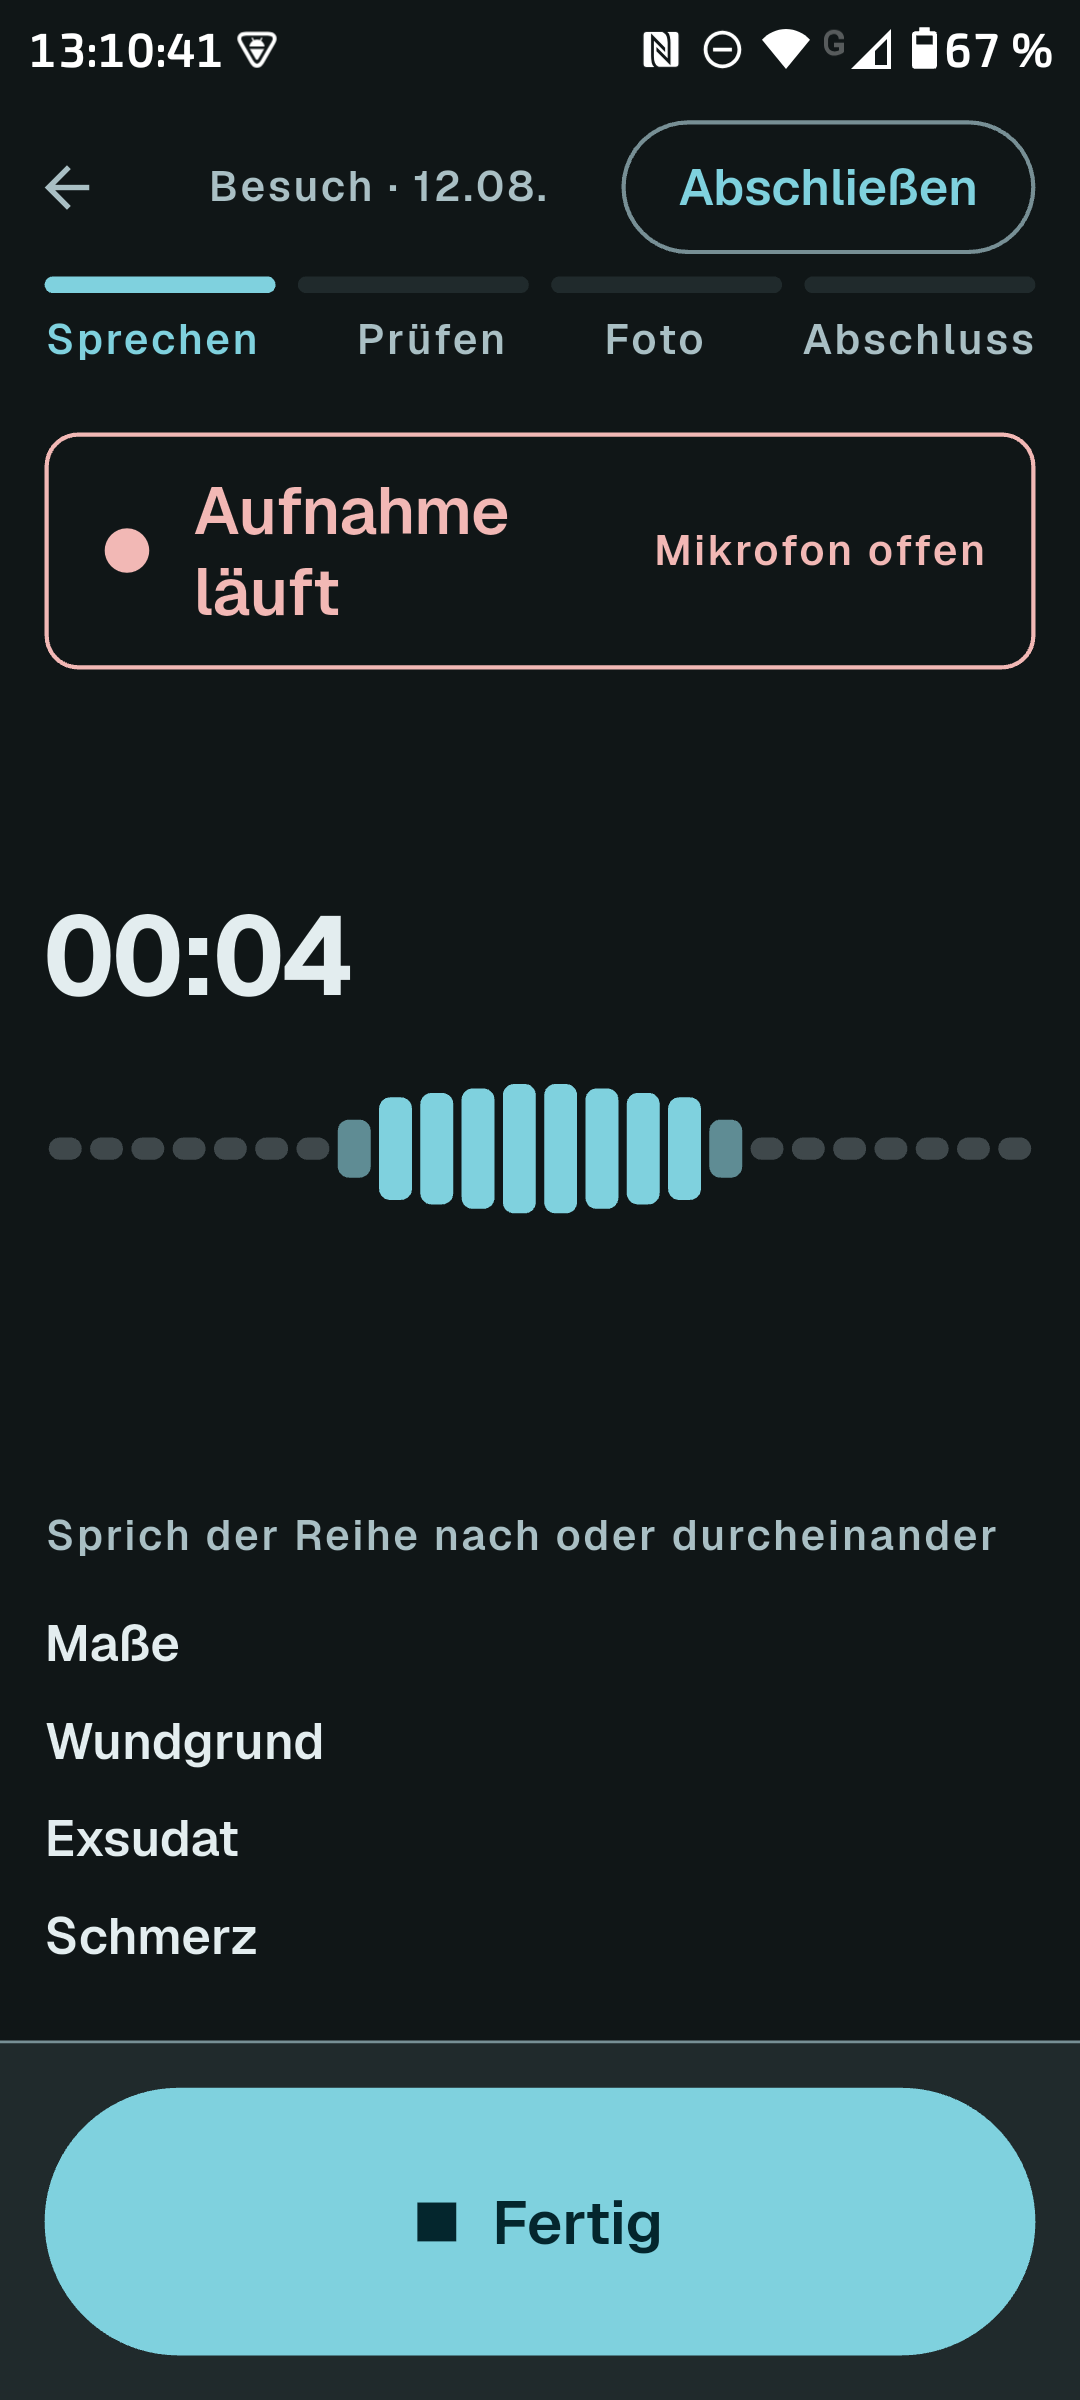
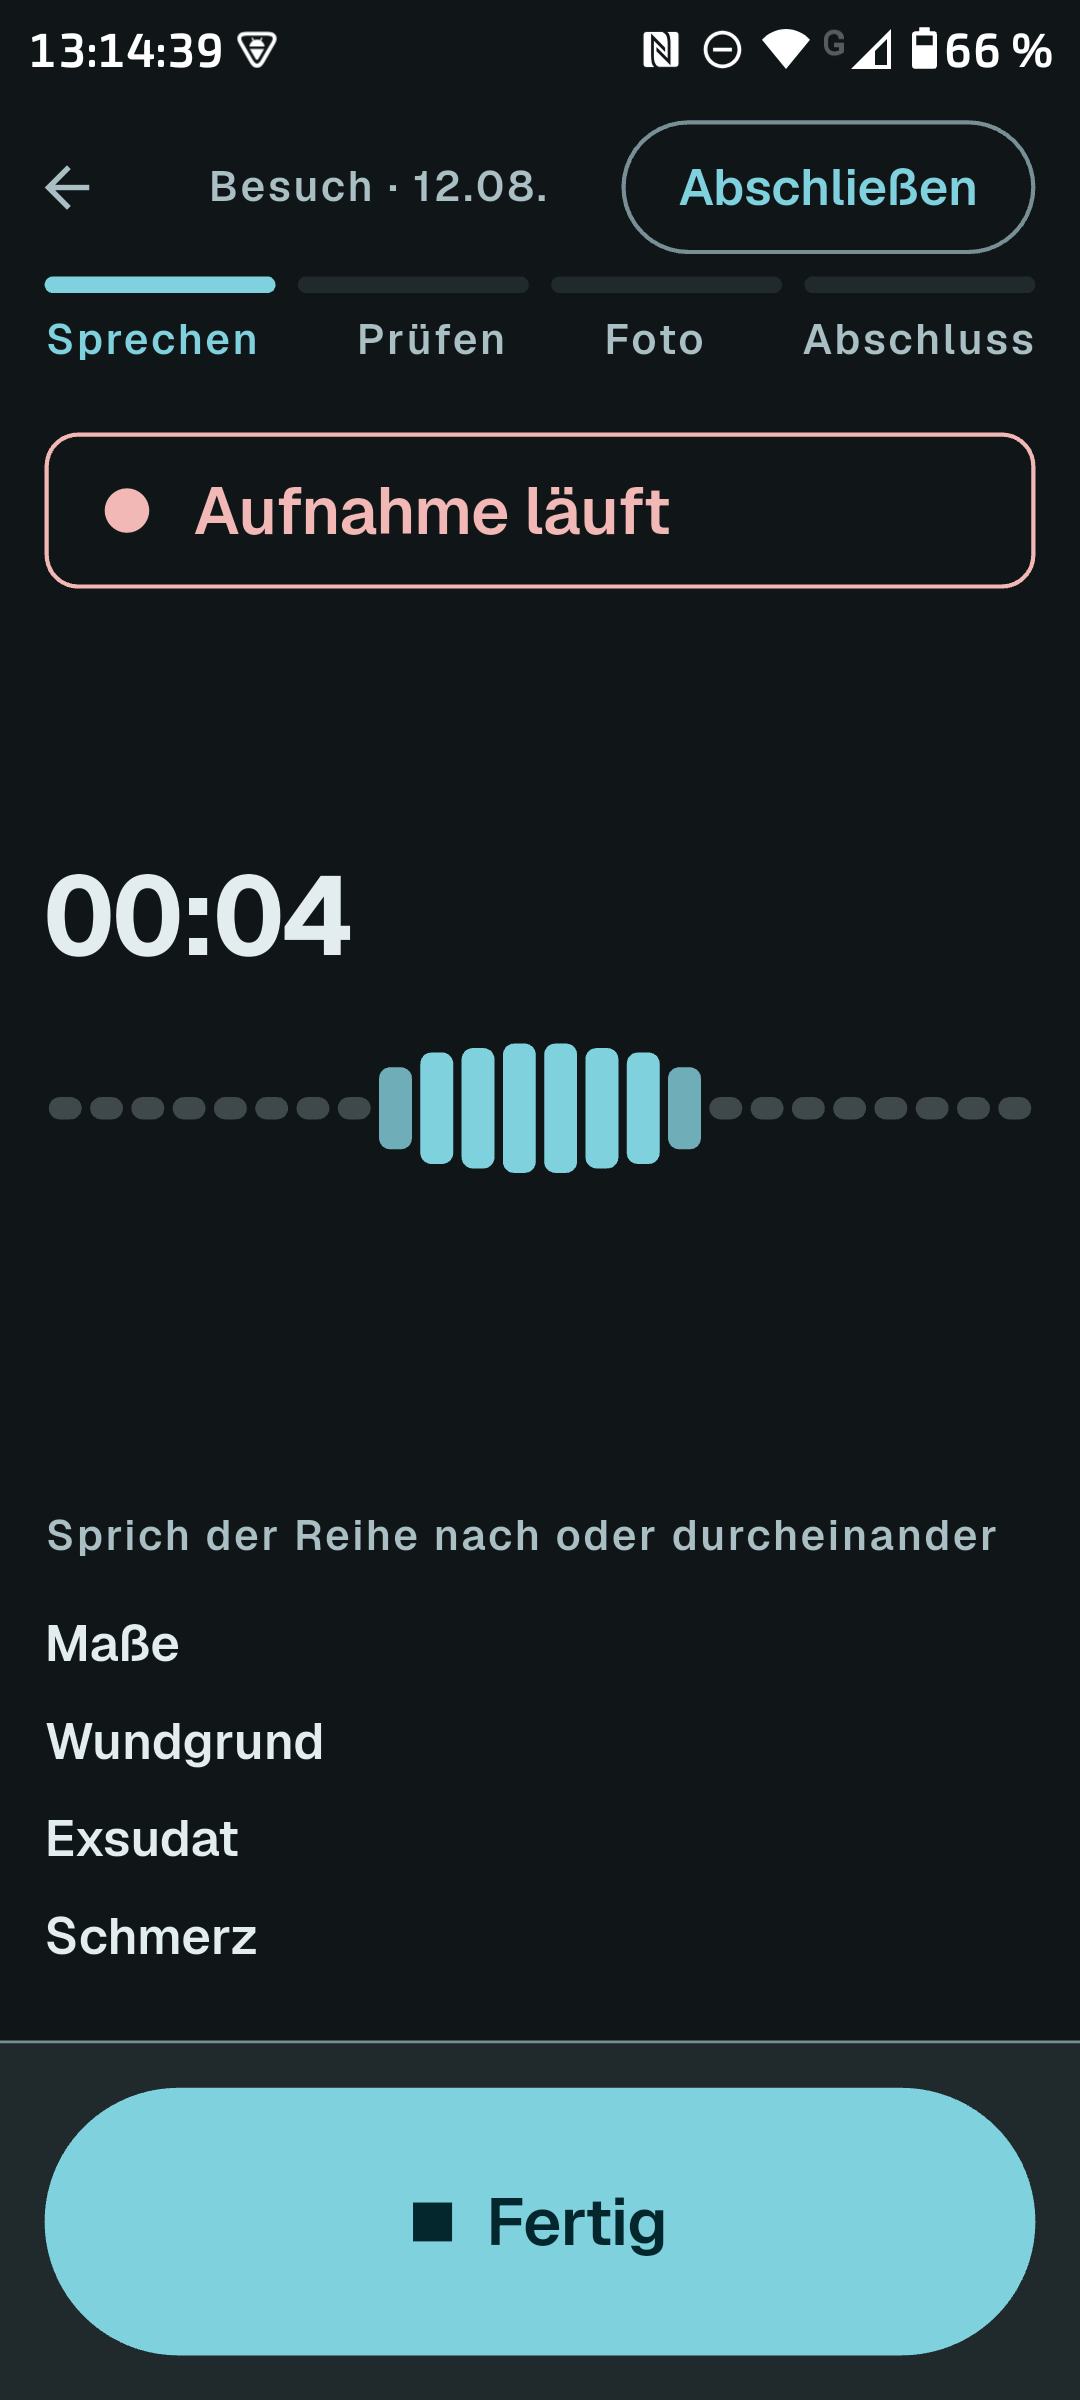
docs: record the review round and what the device added

diff --git a/PROGRESS.md b/PROGRESS.md
@@ -146,6 +146,21 @@ Goldens haben je einen echten Fehler gezeigt:
 
 **301 Tests grün**, Analyzer sauber, Goldens erneuert, Bilddiffs angesehen.
 
+### Was erst das Gerät gezeigt hat
+
+`doc/screenshots/besuchsband-geraet.png` und `aufnahme-geraet.png`
+(motorola edge 30 ultra, dunkles Theme, Systemschrift eine Stufe über der
+Vorgabe — also der Normalfall, nicht der Randfall).
+
+- **„Aufnahme läuft" brach auf zwei Zeilen**, weil rechts daneben ein zweites
+  Abzeichen „Mikrofon offen" die halbe Zeile hielt. Es sagte dasselbe noch
+  einmal und ist weg statt passend gemacht.
+- Die Beschriftung der 96-dp-Fläche steht jetzt auf 22 statt 20. Damit bleibt
+  der Aufnahmezustand bei den vier Schriftgrößen, die die Regel erlaubt.
+
+Der Goldens-Lauf konnte beides nicht zeigen: er läuft auf Textskalierung 1,0,
+und niemand stellt sein Telefon so ein.
+
 **Offen an diesem Screen:** Der Entwurf schaltet den Aufnahmezustand bewusst
 **dunkel, unabhängig vom Theme** („kein Blendlicht in der Wohnung", „Mikrofon
 offen" von der Türschwelle lesbar) und zeigt den Zwischenstand als Chips
